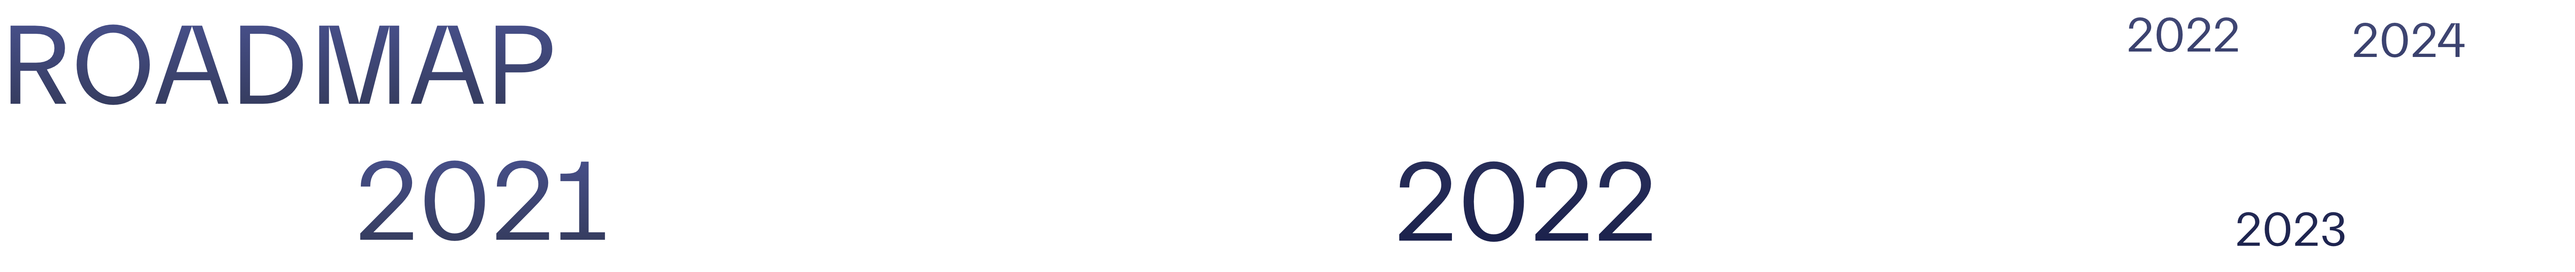
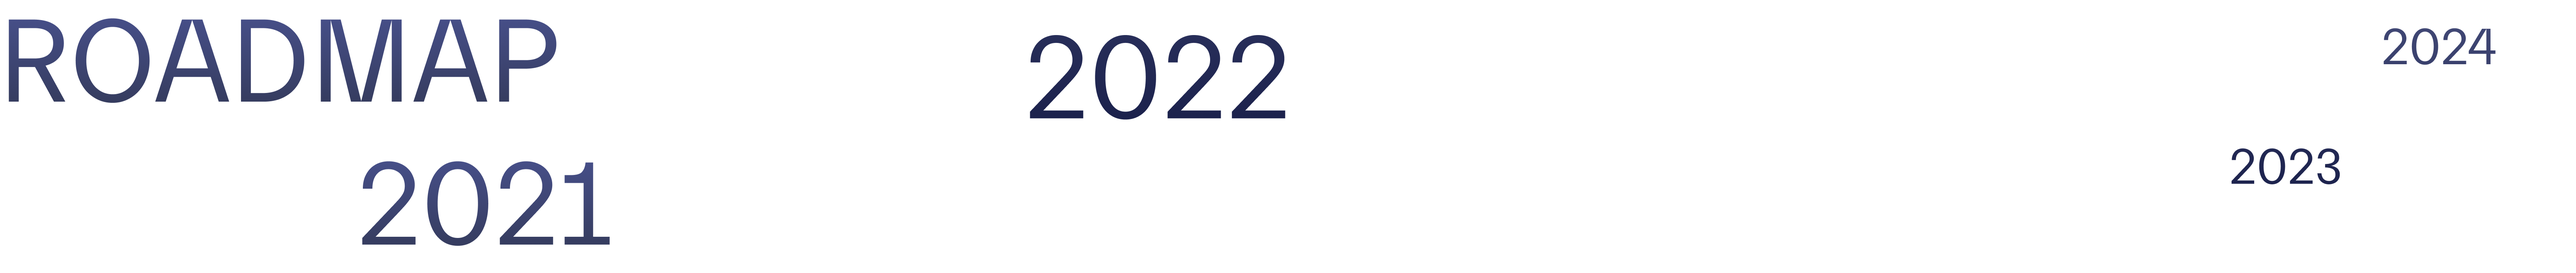
Update roadmap

diff --git a/src/components/Team.vue b/src/components/Team.vue
@@ -55,7 +55,7 @@ export default {
           email: 'bjorn@sunlitsea.no',
           imagePath: require('@/assets/images/cv_bjorn.jpg'),
           description:
-            'Bjørn is a hydrodynamics expert with more than 12 years of experience from DNV. He runs research and certification efforts in Sunlit Sea.',
+            'Bjørn is a hydrodynamics expert with more than 12 years of experience from DNV. He runs research and verification efforts in Sunlit Sea.',
         }
       ],
     };

diff --git a/README.md b/README.md
@@ -75,6 +75,7 @@ Including an SVG is handled by svgToGroup.ts, which converts an svg file to a gr
 
 There's a template for the different roadmap svg's in src/assets, one for desktop and one for mobile.
 
+Alternatively, the latest roadmap can be found in a [Figma project](https://www.figma.com/file/b7WSsvhpBtwLhJO0ugSHwd/sunlitsea.no-roadmap?node-id=0%3A1). 
 
 1. Open the template in a vector graphics program. 
 2. Make the wanted changes
